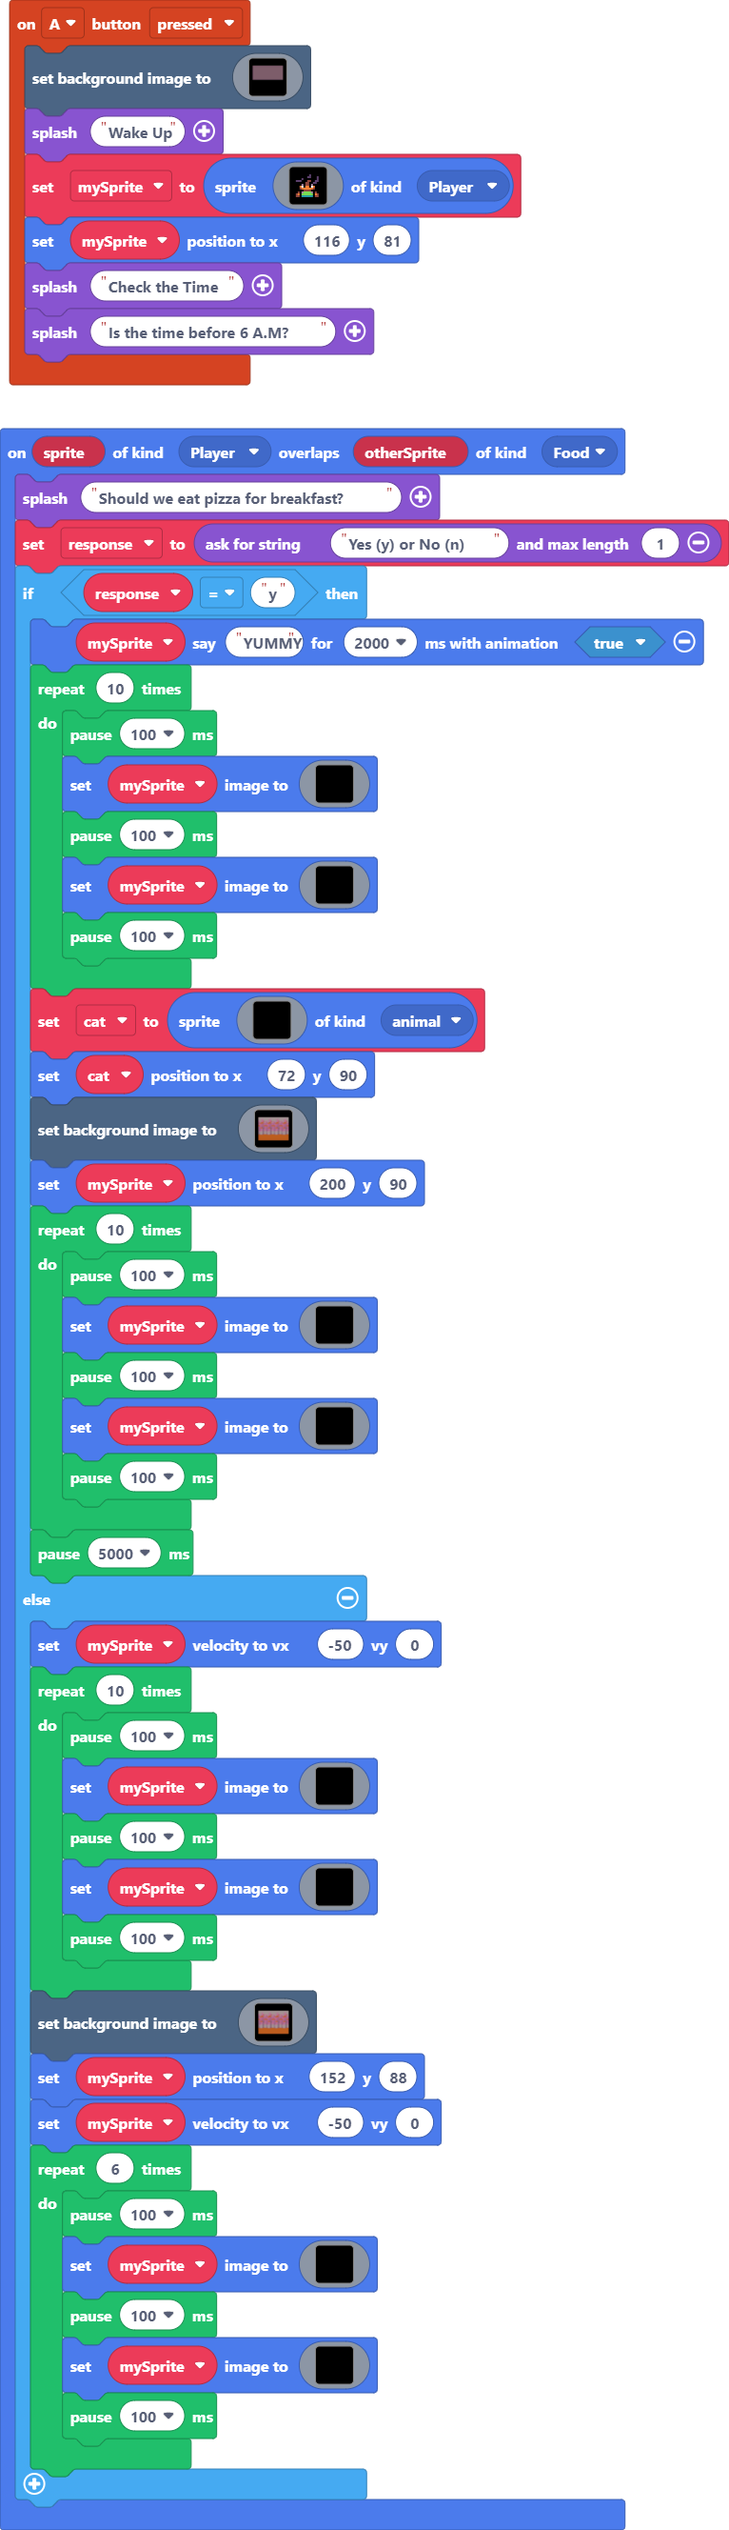
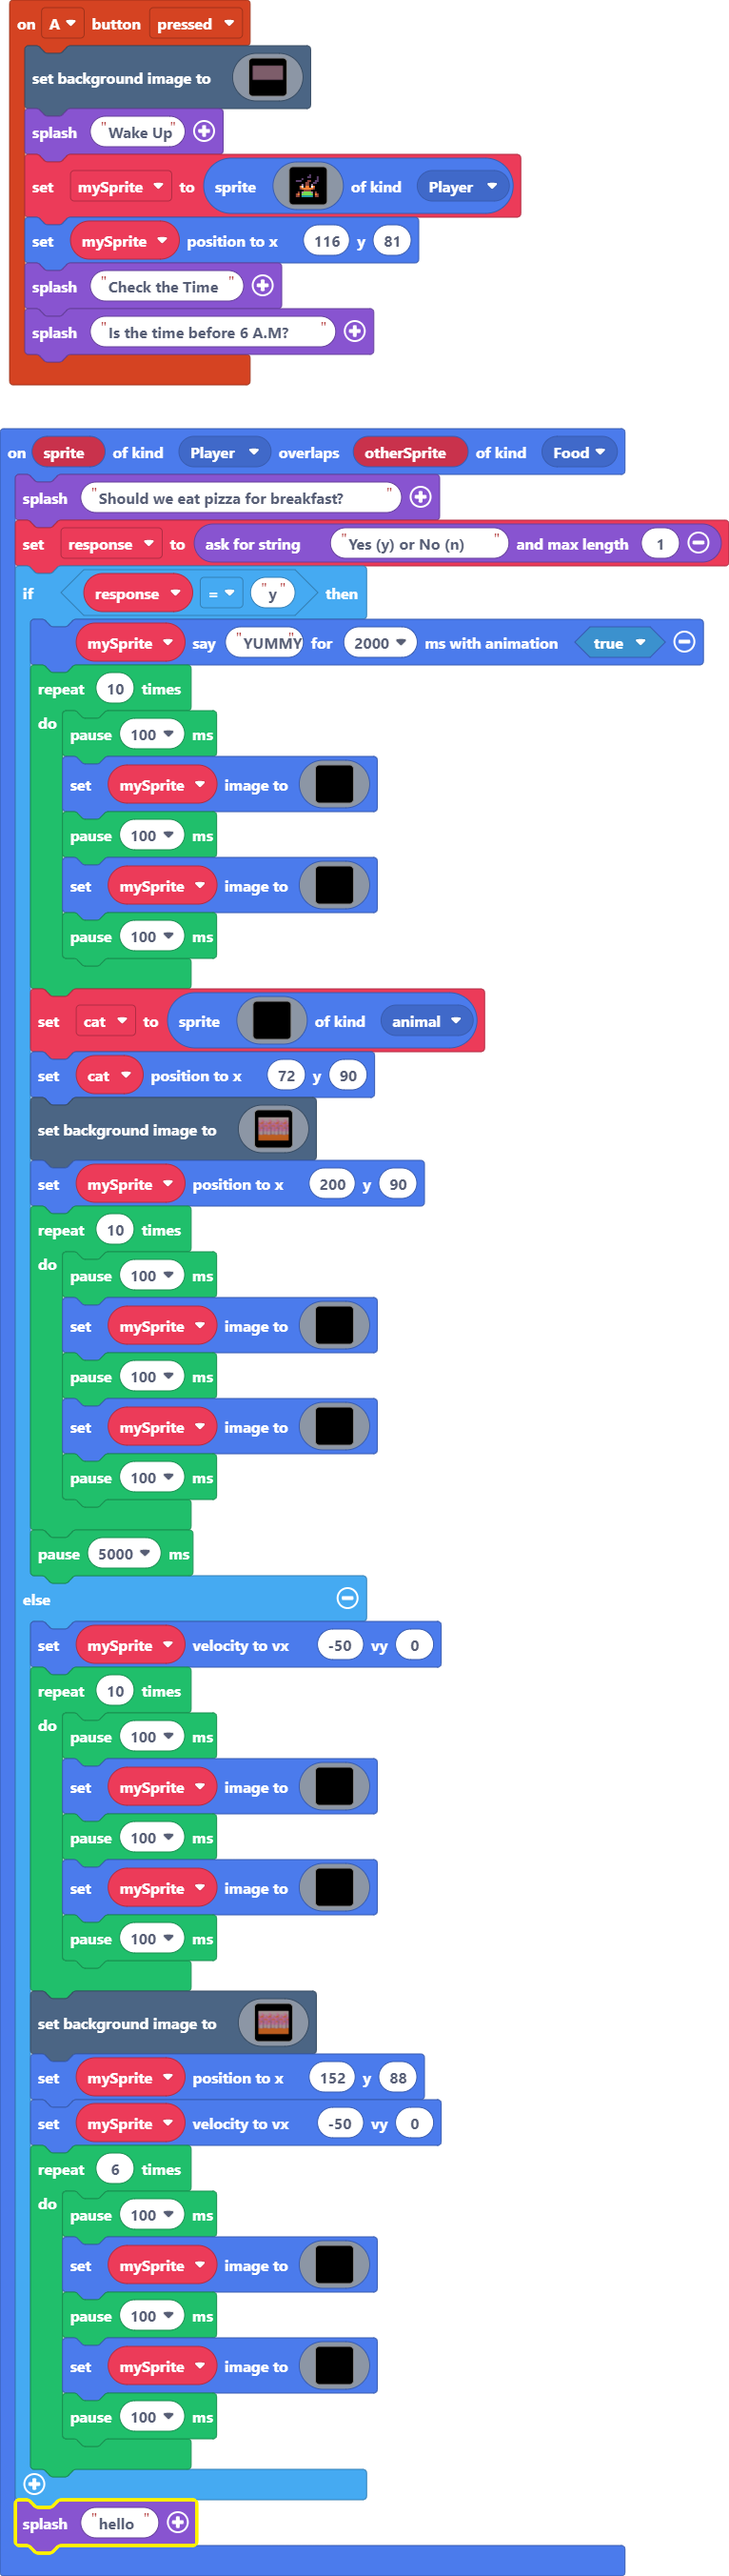
Update main.blocks, main.ts

Changed region(s): [[0.0, 0.0, 1.0, 1.0]]

diff --git a/main.ts b/main.ts
@@ -589,4 +589,5 @@ sprites.onOverlap(SpriteKind.Player, SpriteKind.Food, function (sprite, otherSpr
             pause(100)
         }
     }
+    game.splash("hello")
 })
